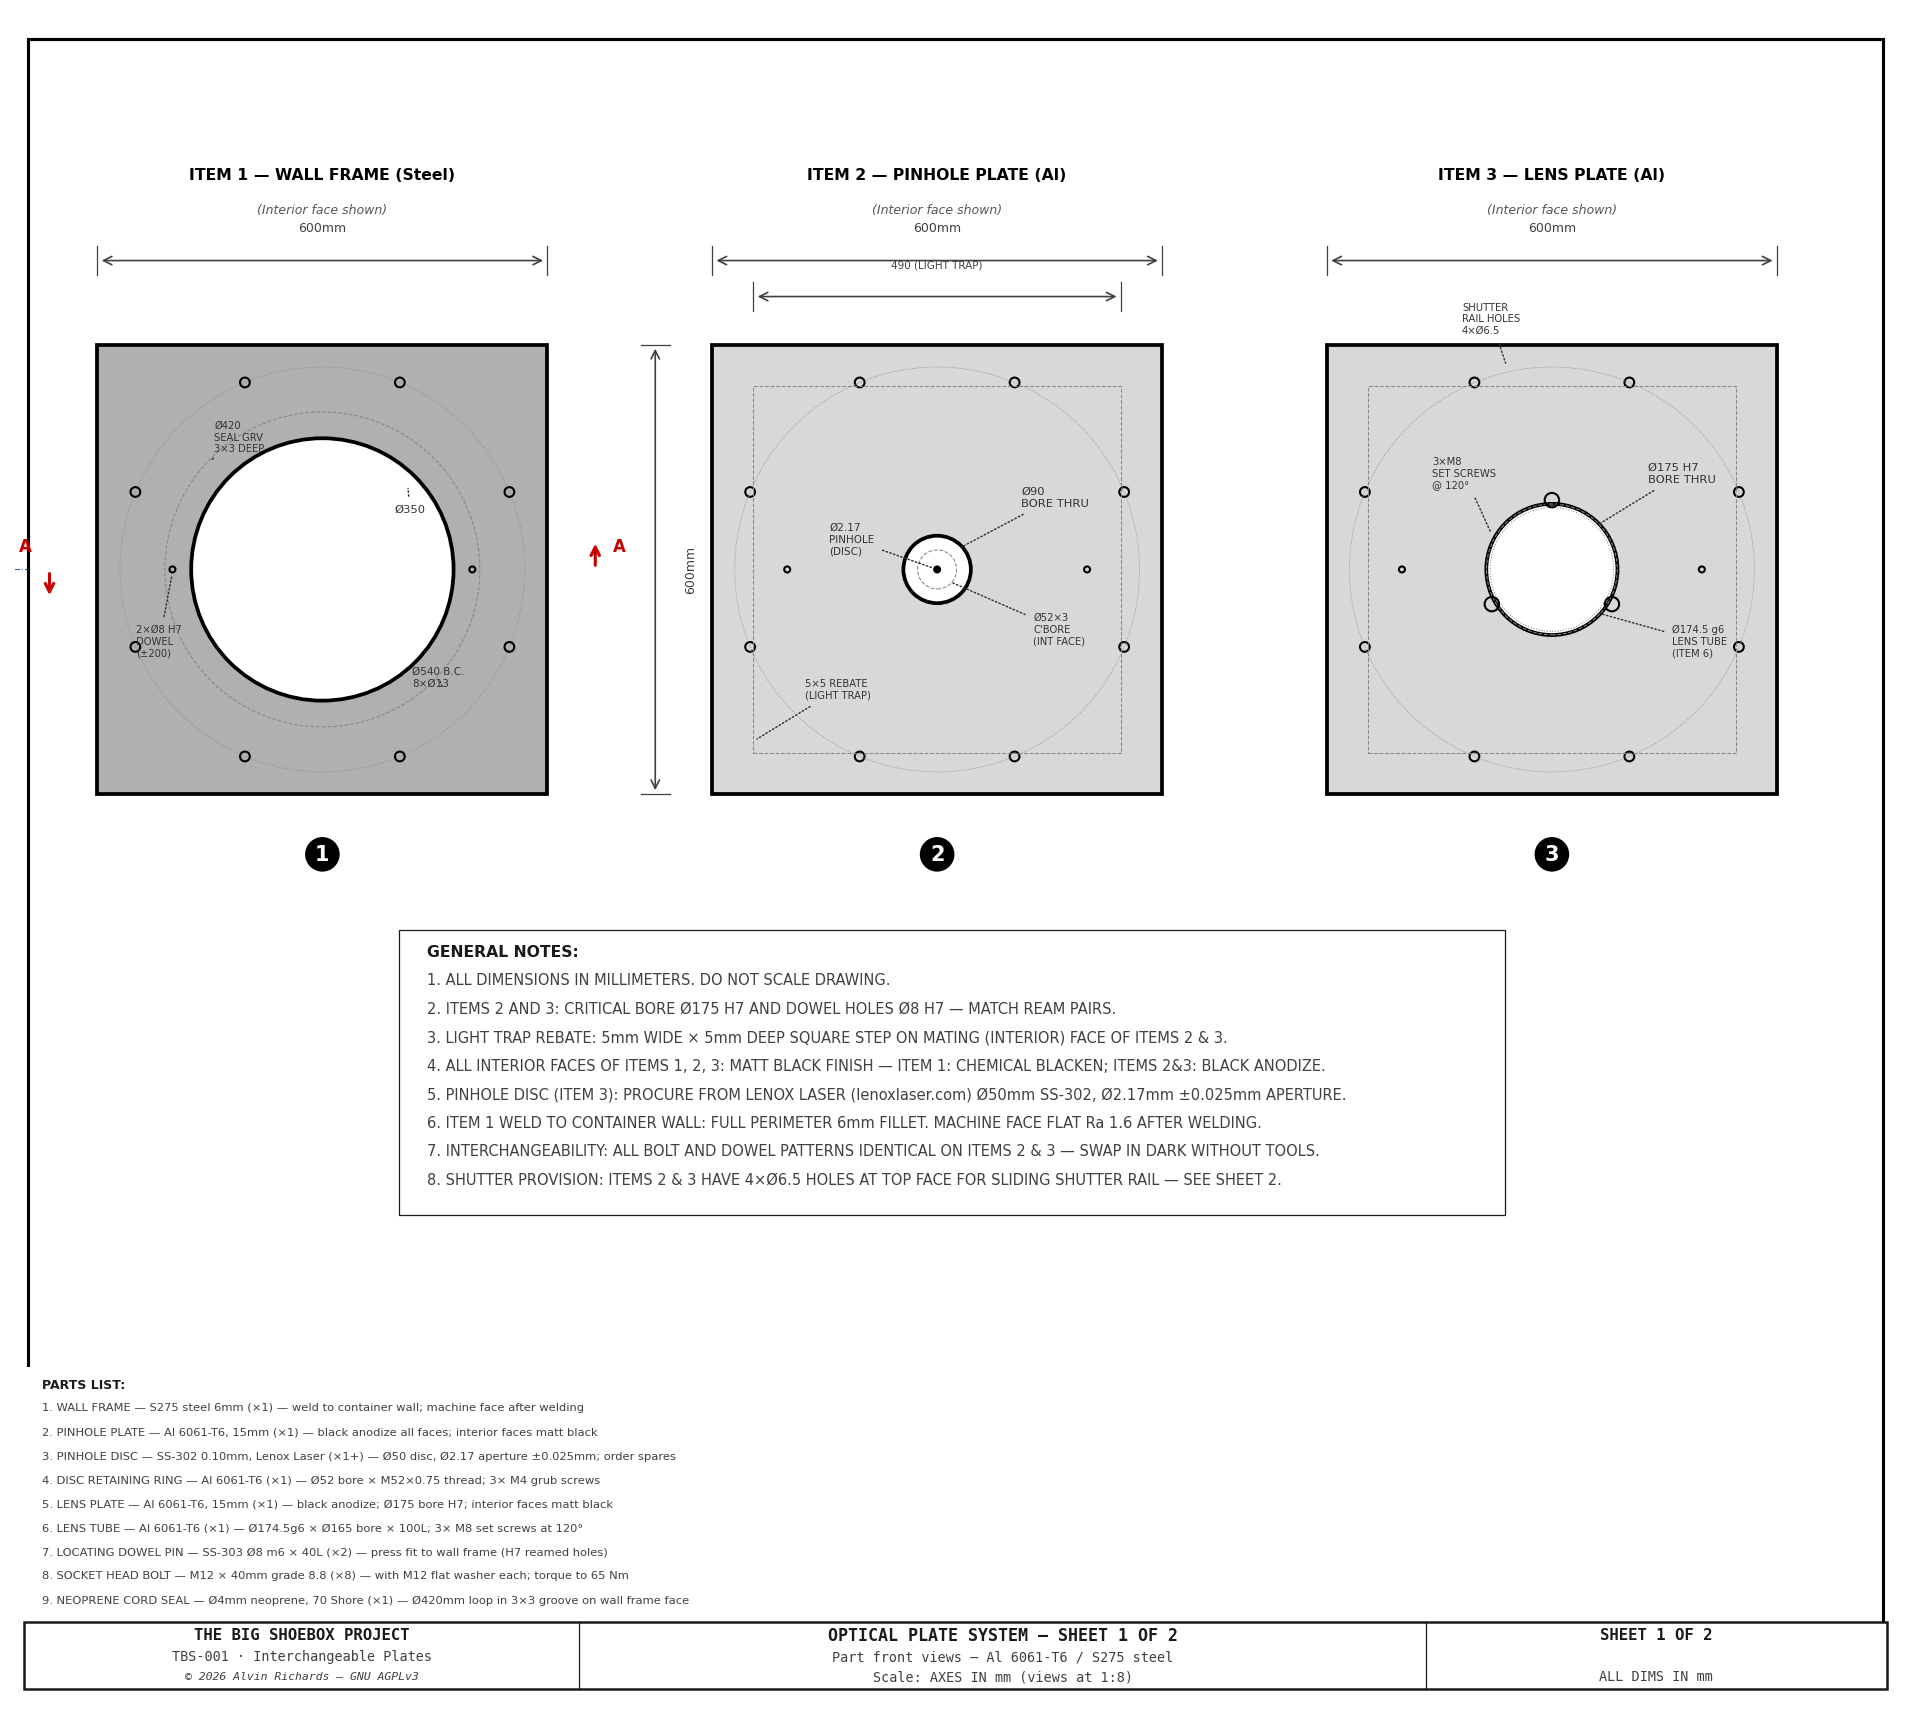
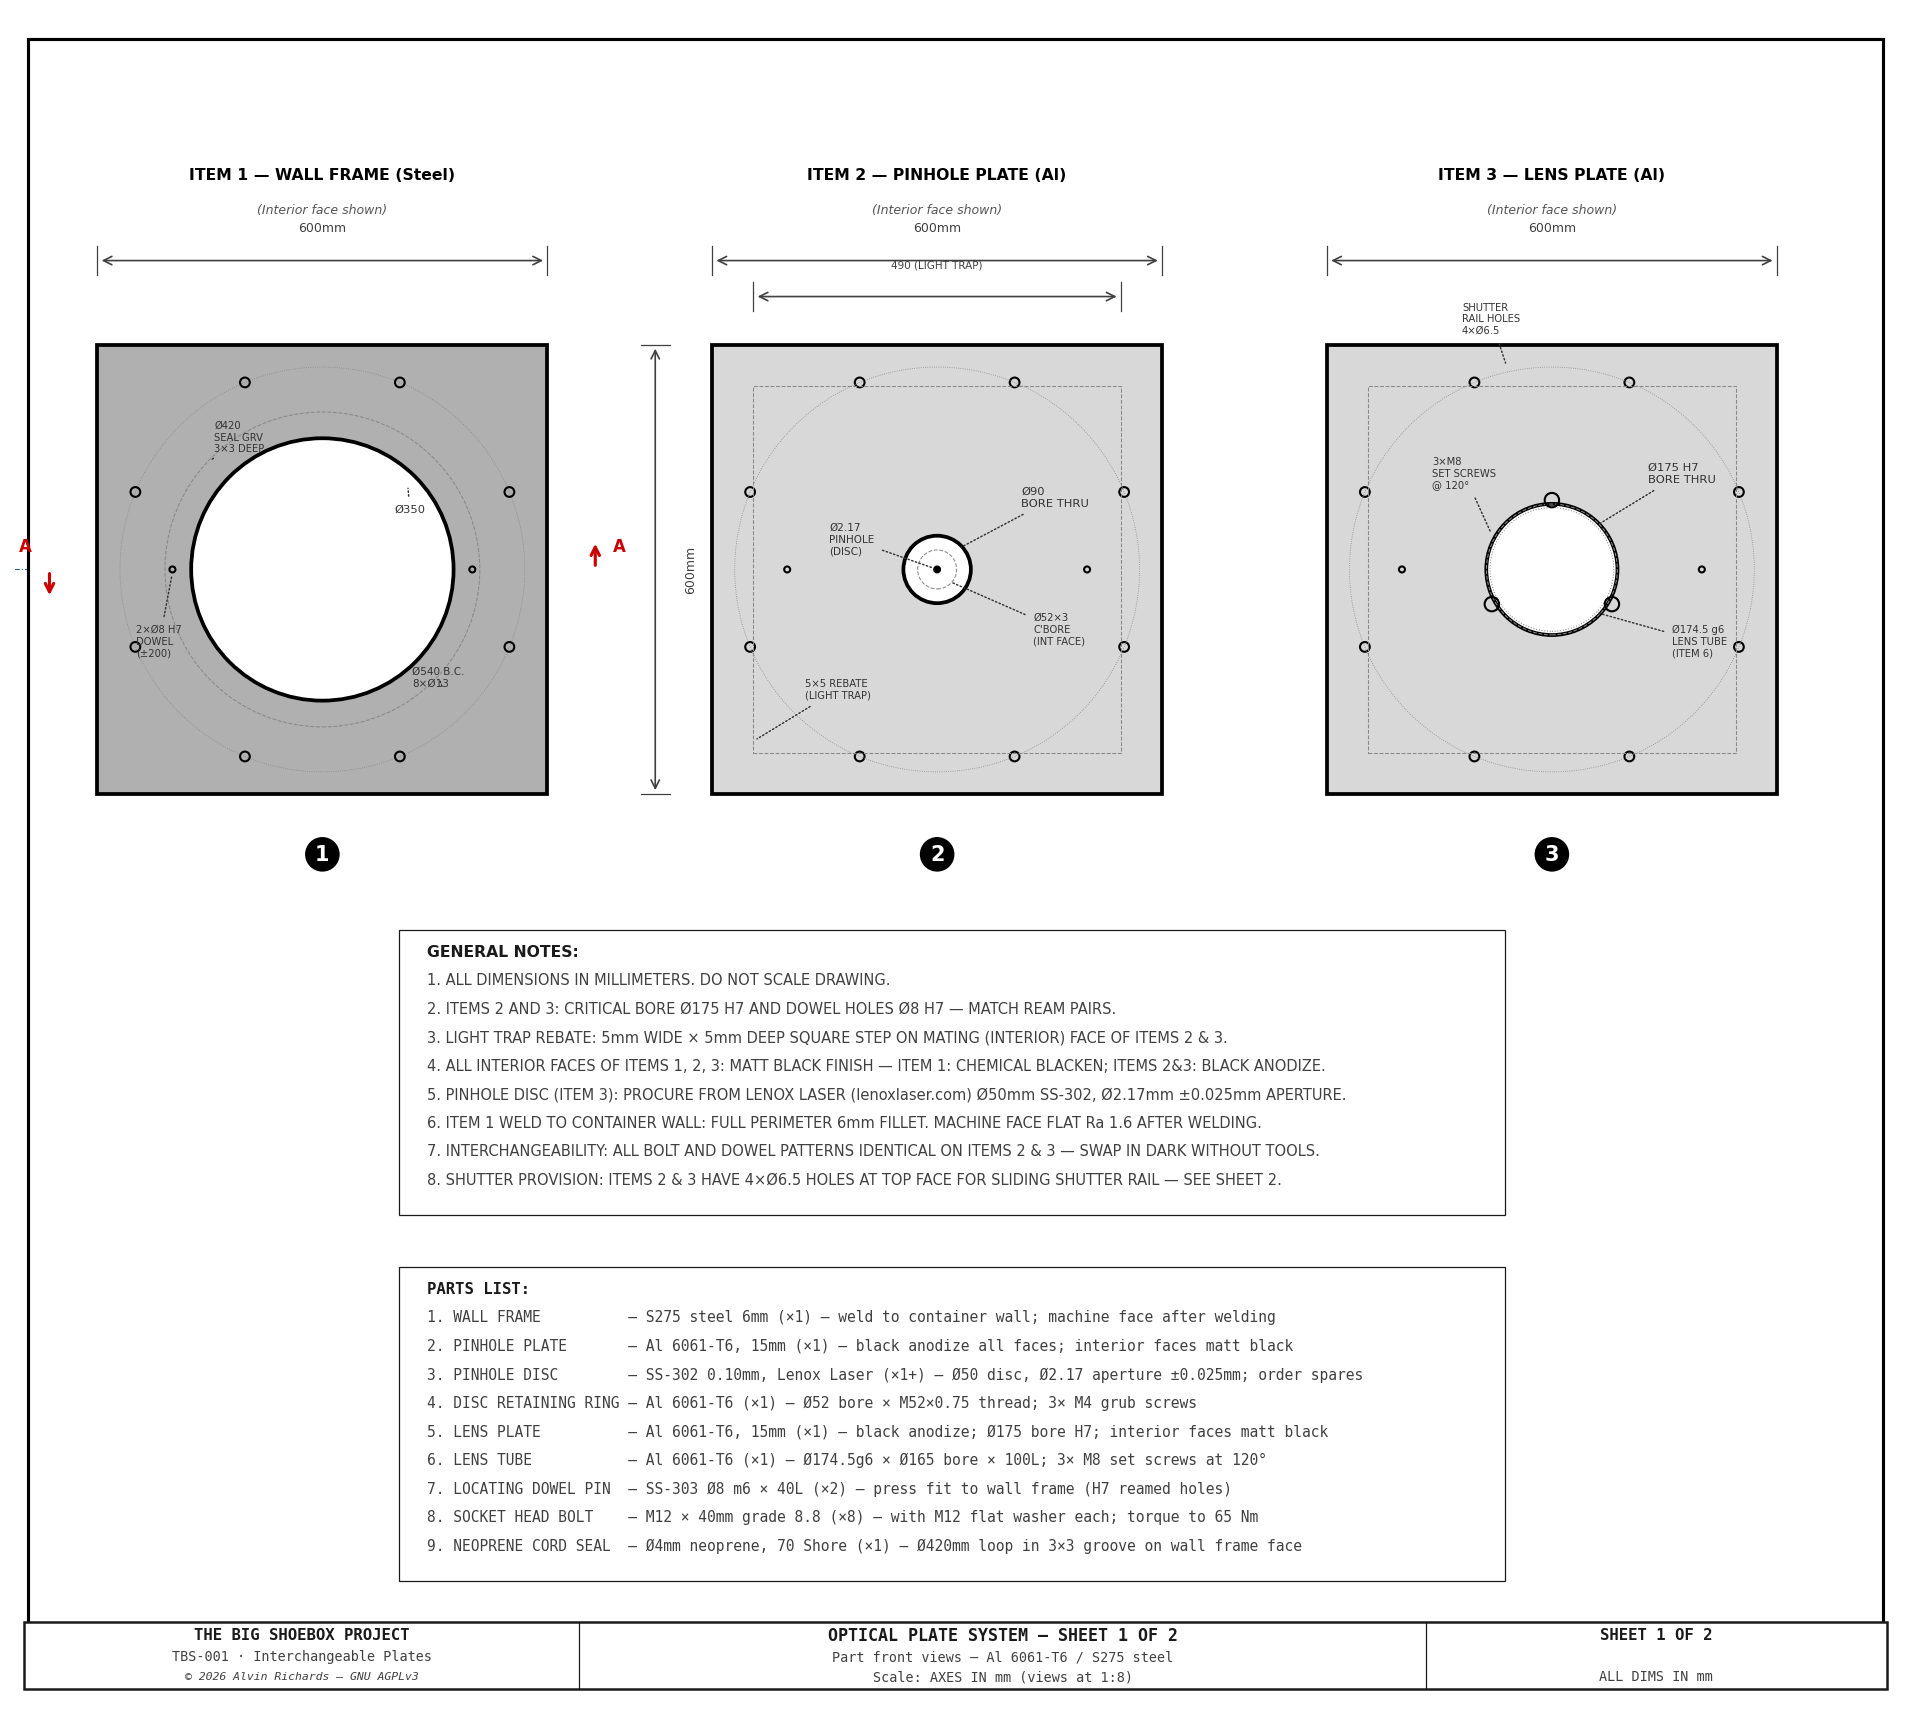
Plate drawing sheet 1: render parts list in monospace font

Changed region(s): [[0.0, 0.7443, 0.6796, 0.9304]]

diff --git a/generate_plate_drawing.py b/generate_plate_drawing.py
@@ -97,18 +97,18 @@ def draw_sheet1():
     # ── Parts list (notes block) ──────────────────────────────────────────────
     parts_notes = [
         'PARTS LIST:',
-        '1. WALL FRAME — S275 steel 6mm (×1) — weld to container wall; machine face after welding',
-        '2. PINHOLE PLATE — Al 6061-T6, 15mm (×1) — black anodize all faces; interior faces matt black',
-        '3. PINHOLE DISC — SS-302 0.10mm, Lenox Laser (×1+) — Ø50 disc, Ø2.17 aperture ±0.025mm; order spares',
+        '1. WALL FRAME          — S275 steel 6mm (×1) — weld to container wall; machine face after welding',
+        '2. PINHOLE PLATE       — Al 6061-T6, 15mm (×1) — black anodize all faces; interior faces matt black',
+        '3. PINHOLE DISC        — SS-302 0.10mm, Lenox Laser (×1+) — Ø50 disc, Ø2.17 aperture ±0.025mm; order spares',
         '4. DISC RETAINING RING — Al 6061-T6 (×1) — Ø52 bore × M52×0.75 thread; 3× M4 grub screws',
-        '5. LENS PLATE — Al 6061-T6, 15mm (×1) — black anodize; Ø175 bore H7; interior faces matt black',
-        '6. LENS TUBE — Al 6061-T6 (×1) — Ø174.5g6 × Ø165 bore × 100L; 3× M8 set screws at 120°',
-        '7. LOCATING DOWEL PIN — SS-303 Ø8 m6 × 40L (×2) — press fit to wall frame (H7 reamed holes)',
-        '8. SOCKET HEAD BOLT — M12 × 40mm grade 8.8 (×8) — with M12 flat washer each; torque to 65 Nm',
-        '9. NEOPRENE CORD SEAL — Ø4mm neoprene, 70 Shore (×1) — Ø420mm loop in 3×3 groove on wall frame face',
+        '5. LENS PLATE          — Al 6061-T6, 15mm (×1) — black anodize; Ø175 bore H7; interior faces matt black',
+        '6. LENS TUBE           — Al 6061-T6 (×1) — Ø174.5g6 × Ø165 bore × 100L; 3× M8 set screws at 120°',
+        '7. LOCATING DOWEL PIN  — SS-303 Ø8 m6 × 40L (×2) — press fit to wall frame (H7 reamed holes)',
+        '8. SOCKET HEAD BOLT    — M12 × 40mm grade 8.8 (×8) — with M12 flat washer each; torque to 65 Nm',
+        '9. NEOPRENE CORD SEAL  — Ø4mm neoprene, 70 Shore (×1) — Ø420mm loop in 3×3 groove on wall frame face',
     ]
-    draw_notes(ax1, parts_notes, 36, 420, spacing=32, fs=5.5, width=1660,
-               border_lw=0)
+    draw_notes(ax1, parts_notes, 550, 550, spacing=38, fs=7, width=1400,
+               font={"fontfamily": "monospace"})
 
     # ── View titles ───────────────────────────────────────────────────────────
     view_titles = [
